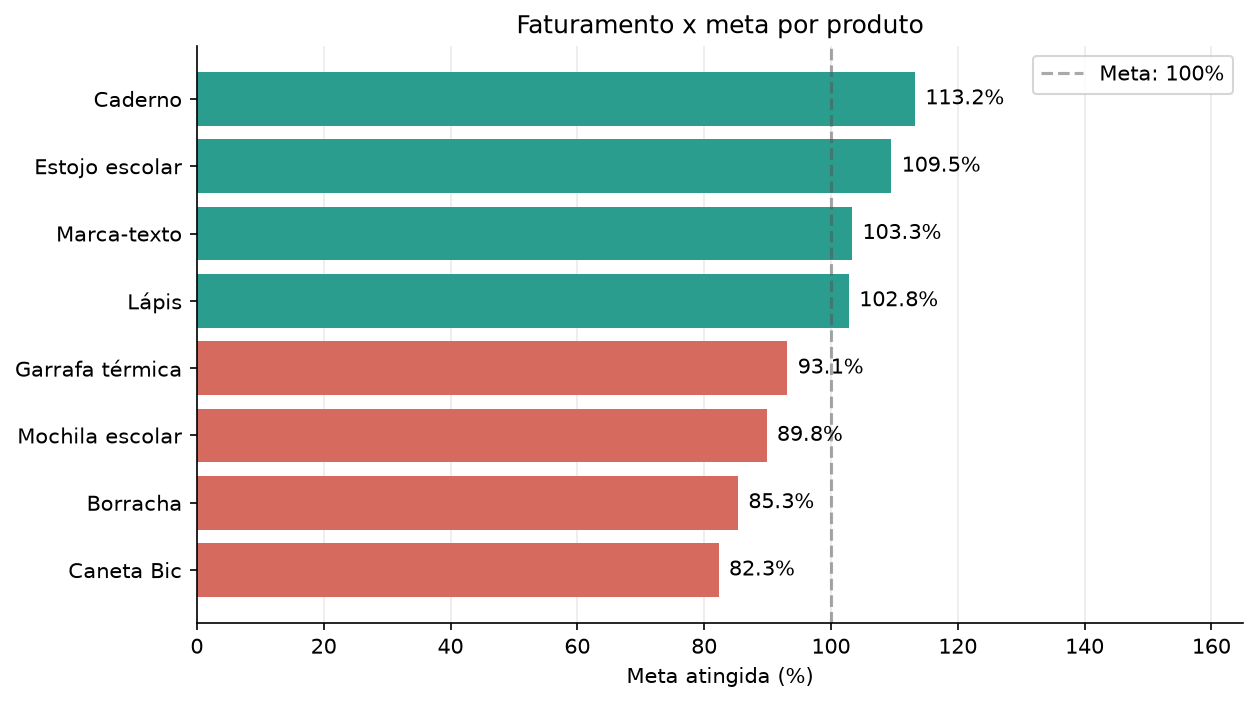
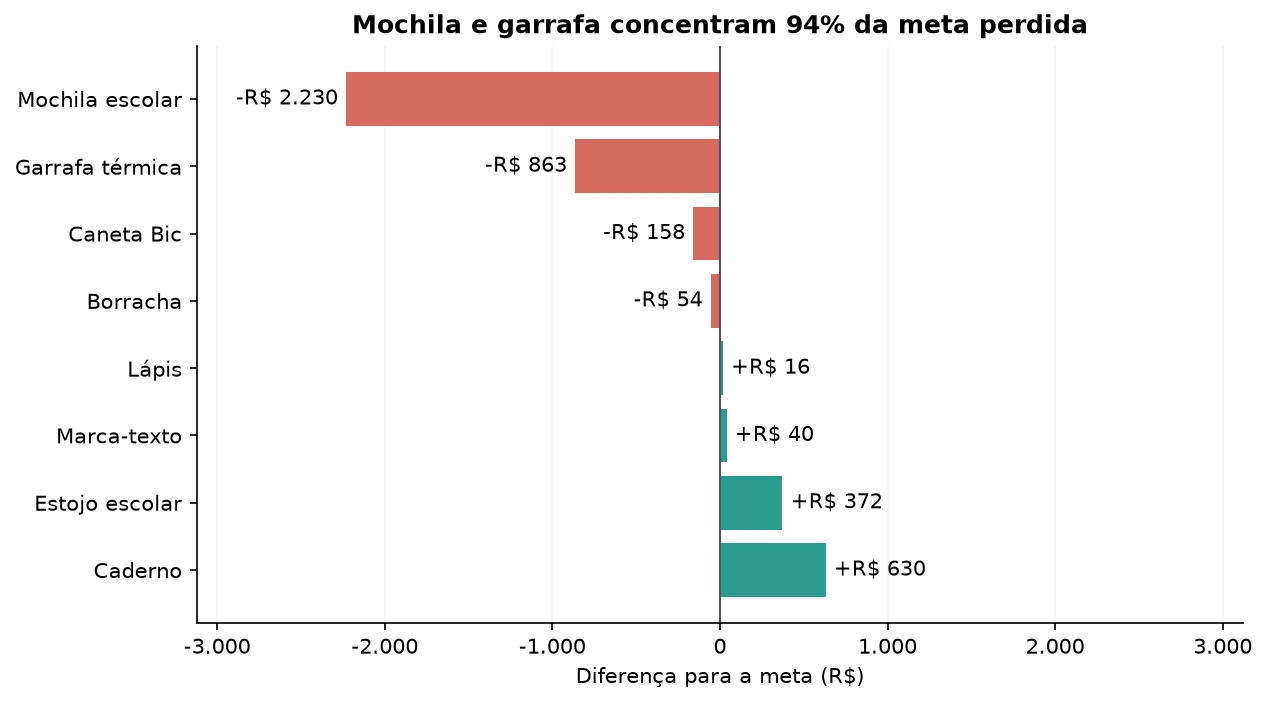
fix: corrigindo gráfico de atg. de meta por produto

diff --git a/src/analises/comercial/ranking_produtos/gerar_grafico.py b/src/analises/comercial/ranking_produtos/gerar_grafico.py
@@ -124,24 +124,31 @@ def grafico_faturamento_meta_vendedores(
 
 
 def grafico_faturamento_meta_produtos(produtos: pl.DataFrame, caminho: Path) -> None:
-    produtos = produtos.sort("atingimento_meta", descending=True)
-    percentuais = [valor * 100 for valor in produtos["atingimento_meta"].to_list()]
-    rotulos = [f"{percentual:.1f}%" for percentual in percentuais]
-    cores = [
-        "#2A9D8F" if percentual >= 100 else "#D66A5E" for percentual in percentuais
+    produtos = produtos.sort("diferenca_meta")
+    diferencas = produtos["diferenca_meta"].to_list()
+    rotulos = [
+        f"{'+' if diferenca >= 0 else '-'}{formatar_reais(abs(diferenca))}"
+        for diferenca in diferencas
     ]
+    cores = ["#2A9D8F" if diferenca >= 0 else "#D66A5E" for diferenca in diferencas]
 
     figura, eixo = plt.subplots(figsize=(9, 5))
-    barras = eixo.barh(produtos["produto"].to_list(), percentuais, color=cores)
+    barras = eixo.barh(produtos["produto"].to_list(), diferencas, color=cores)
     eixo.invert_yaxis()
-    eixo.axvline(100, color="#555555", linestyle="--", alpha=0.5, label="Meta: 100%")
-    eixo.bar_label(barras, labels=rotulos, padding=5)
-    eixo.set_xlim(0, max(165, max(percentuais) * 1.45))
-    eixo.set(title="Faturamento x meta por produto", xlabel="Meta atingida (%)")
+    eixo.axvline(0, color="#555555", linewidth=1)
+    eixo.bar_label(barras, labels=rotulos, padding=4)
+    limite = max(abs(diferenca) for diferenca in diferencas) * 1.4
+    eixo.set_xlim(-limite, limite)
+    eixo.set_title(
+        "Mochila e garrafa concentram 94% da meta perdida", fontweight="bold"
+    )
+    eixo.set_xlabel("Diferença para a meta (R$)")
     eixo.spines["top"].set_visible(False)
     eixo.spines["right"].set_visible(False)
-    eixo.legend(loc="upper right")
-    eixo.grid(axis="x", alpha=0.25)
+    eixo.xaxis.set_major_formatter(
+        FuncFormatter(lambda valor, _: f"{valor:,.0f}".replace(",", "."))
+    )
+    eixo.grid(axis="x", alpha=0.12)
     eixo.set_axisbelow(True)
 
     figura.savefig(caminho, dpi=150, bbox_inches="tight")

diff --git a/src/analises/comercial/ranking_produtos/README.md b/src/analises/comercial/ranking_produtos/README.md
@@ -4,6 +4,10 @@
 
 > Quem vendeu, quanto vendeu, quem atingiu a meta e quais produtos precisam de atenção nos últimos sete dias?
 
+## Storytelling
+
+A análise já foi concluída e você pode ler [aqui](STORYTELLING.md)
+
 ## Dados simulados
 
 `gerar_dados.py` cria uma planilha por dia em `dados/`, do sétimo dia anterior até D-1.
@@ -33,37 +37,9 @@ Planilhas de períodos anteriores em `dados/` não entram no resumo.
 | `volume_vendas.png`               | Evolução diária das unidades vendidas.                      |
 | `produtos_mais_vendidos.png`      | Ranking de produtos por unidades vendidas.                  |
 | `faturamento_meta_vendedores.png` | Faturamento líquido e meta de cada vendedor, em reais.      |
-| `faturamento_meta_produtos.png`   | Percentual da meta atingido por produto, com valores em R$. |
+| `faturamento_meta_produtos.png`   | Diferença entre faturamento líquido e meta por produto.     |
 
-Nos rótulos do gráfico de produtos, os valores em reais aparecem arredondados, na ordem faturamento/meta.
-
-## Exemplos visuais
-
-Os exemplos abaixo mostram os gráficos gerados pela automação para o período analisado.
-
-### Volume diário de vendas
-
-![Gráfico de linha com o volume diário de vendas](../../../../assets/exemplos/ranking_produtos/volume_vendas.png)
-
-Mostra a quantidade total de unidades vendidas em cada dia, facilitando a comparação do movimento ao longo da semana.
-
-### Produtos mais vendidos
-
-![Gráfico de barras horizontais com o ranking de produtos mais vendidos](../../../../assets/exemplos/ranking_produtos/produtos_mais_vendidos.png)
-
-Ordena os produtos pela quantidade vendida no período. As barras permitem identificar os itens com maior e menor volume.
-
-### Faturamento e meta por vendedor
-
-![Gráfico de barras comparando faturamento líquido e meta por vendedor](../../../../assets/exemplos/ranking_produtos/faturamento_meta_vendedores.png)
-
-Compara, em reais, o faturamento líquido de cada vendedor com sua meta. Ajuda a ver quem atingiu ou ficou abaixo da meta.
-
-### Atingimento de meta por produto
-
-![Gráfico de barras do percentual da meta atingido por produto](../../../../assets/exemplos/ranking_produtos/faturamento_meta_produtos.png)
-
-Apresenta o percentual da meta de faturamento atingido por produto. 
+Nos rótulos do gráfico de produtos, os valores em reais aparecem arredondados.
 
 ## Como executar
 
